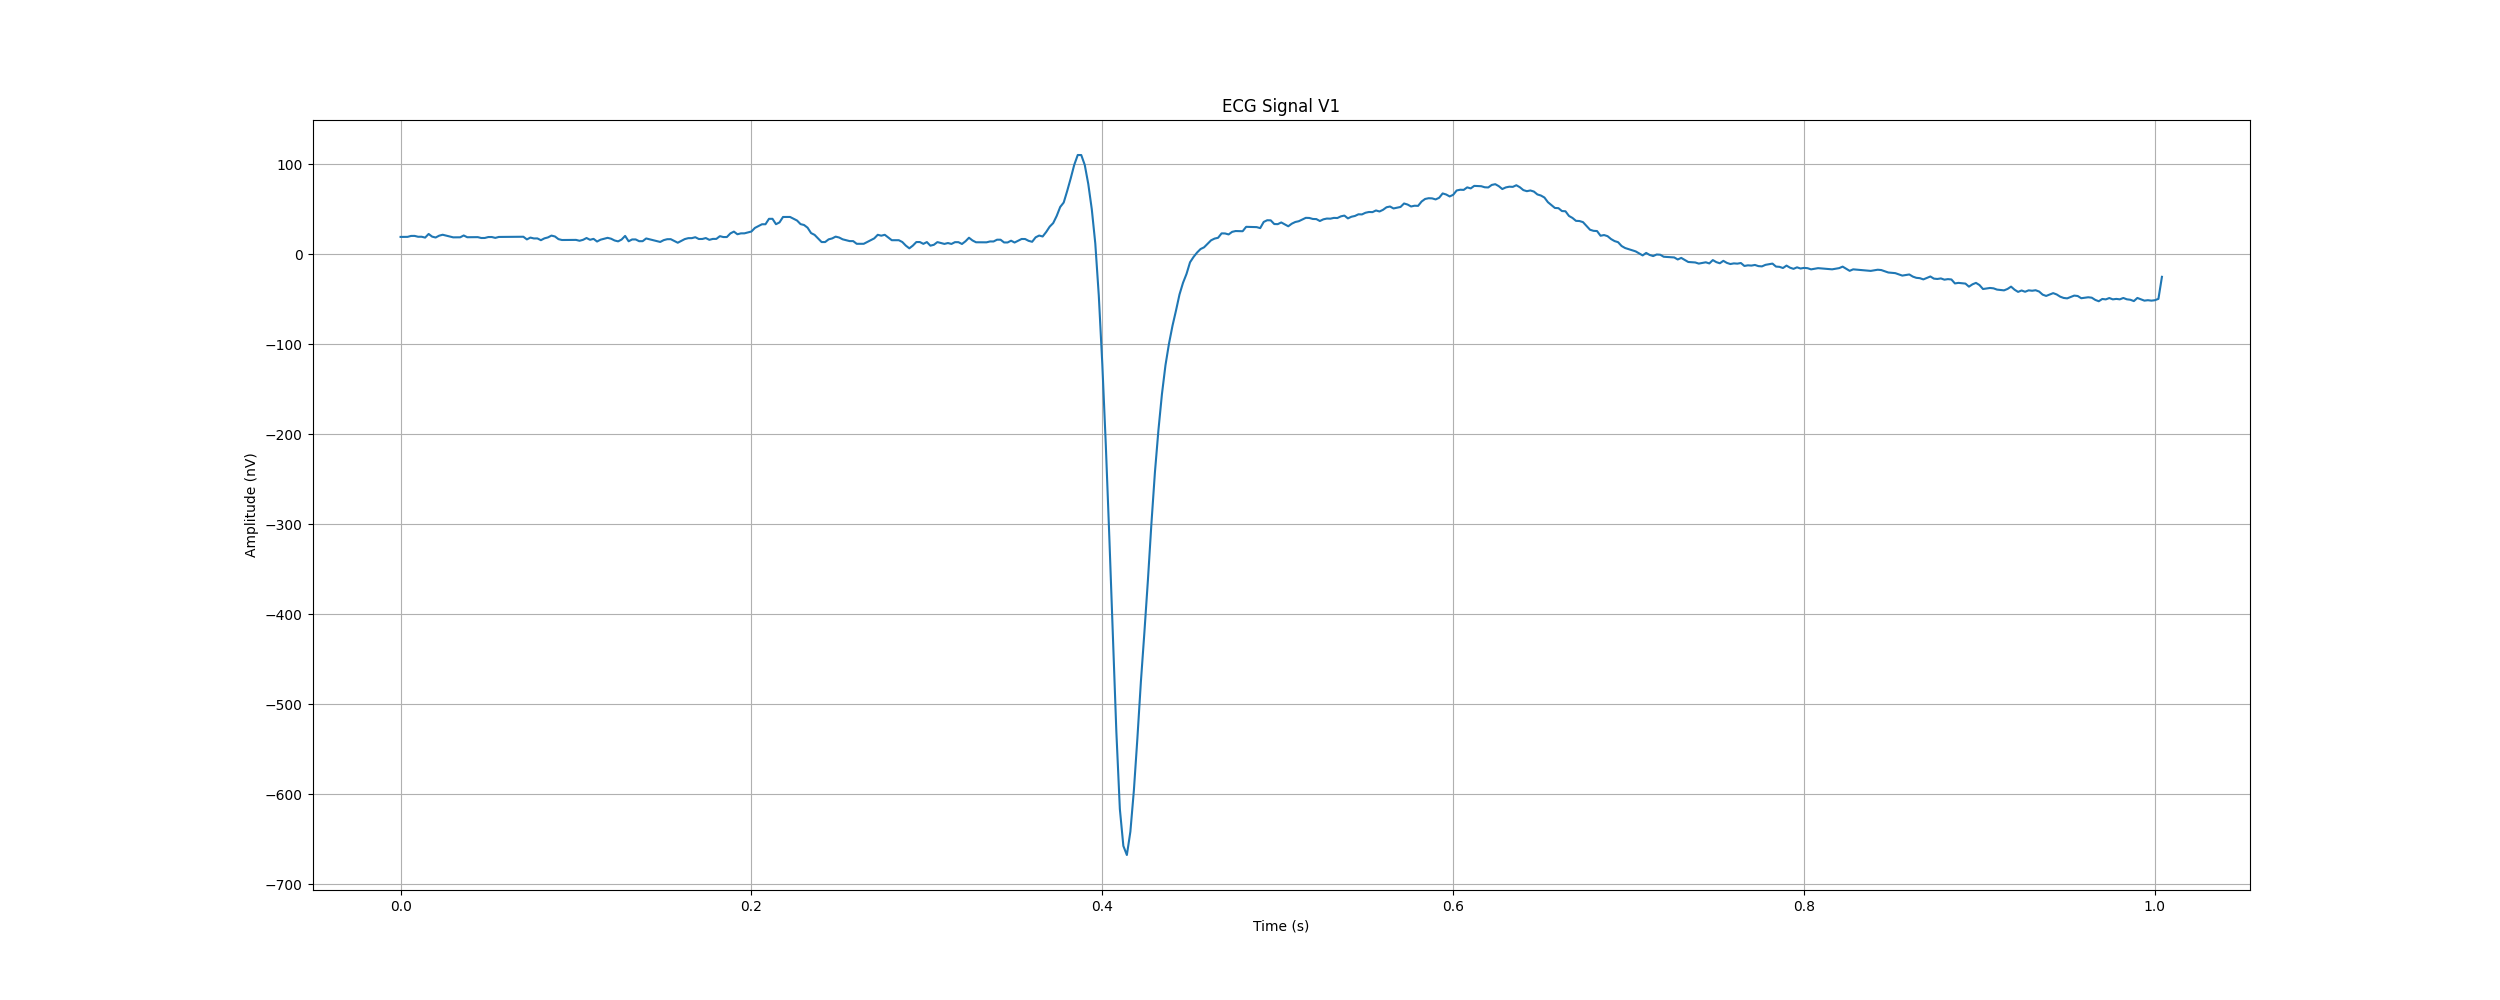
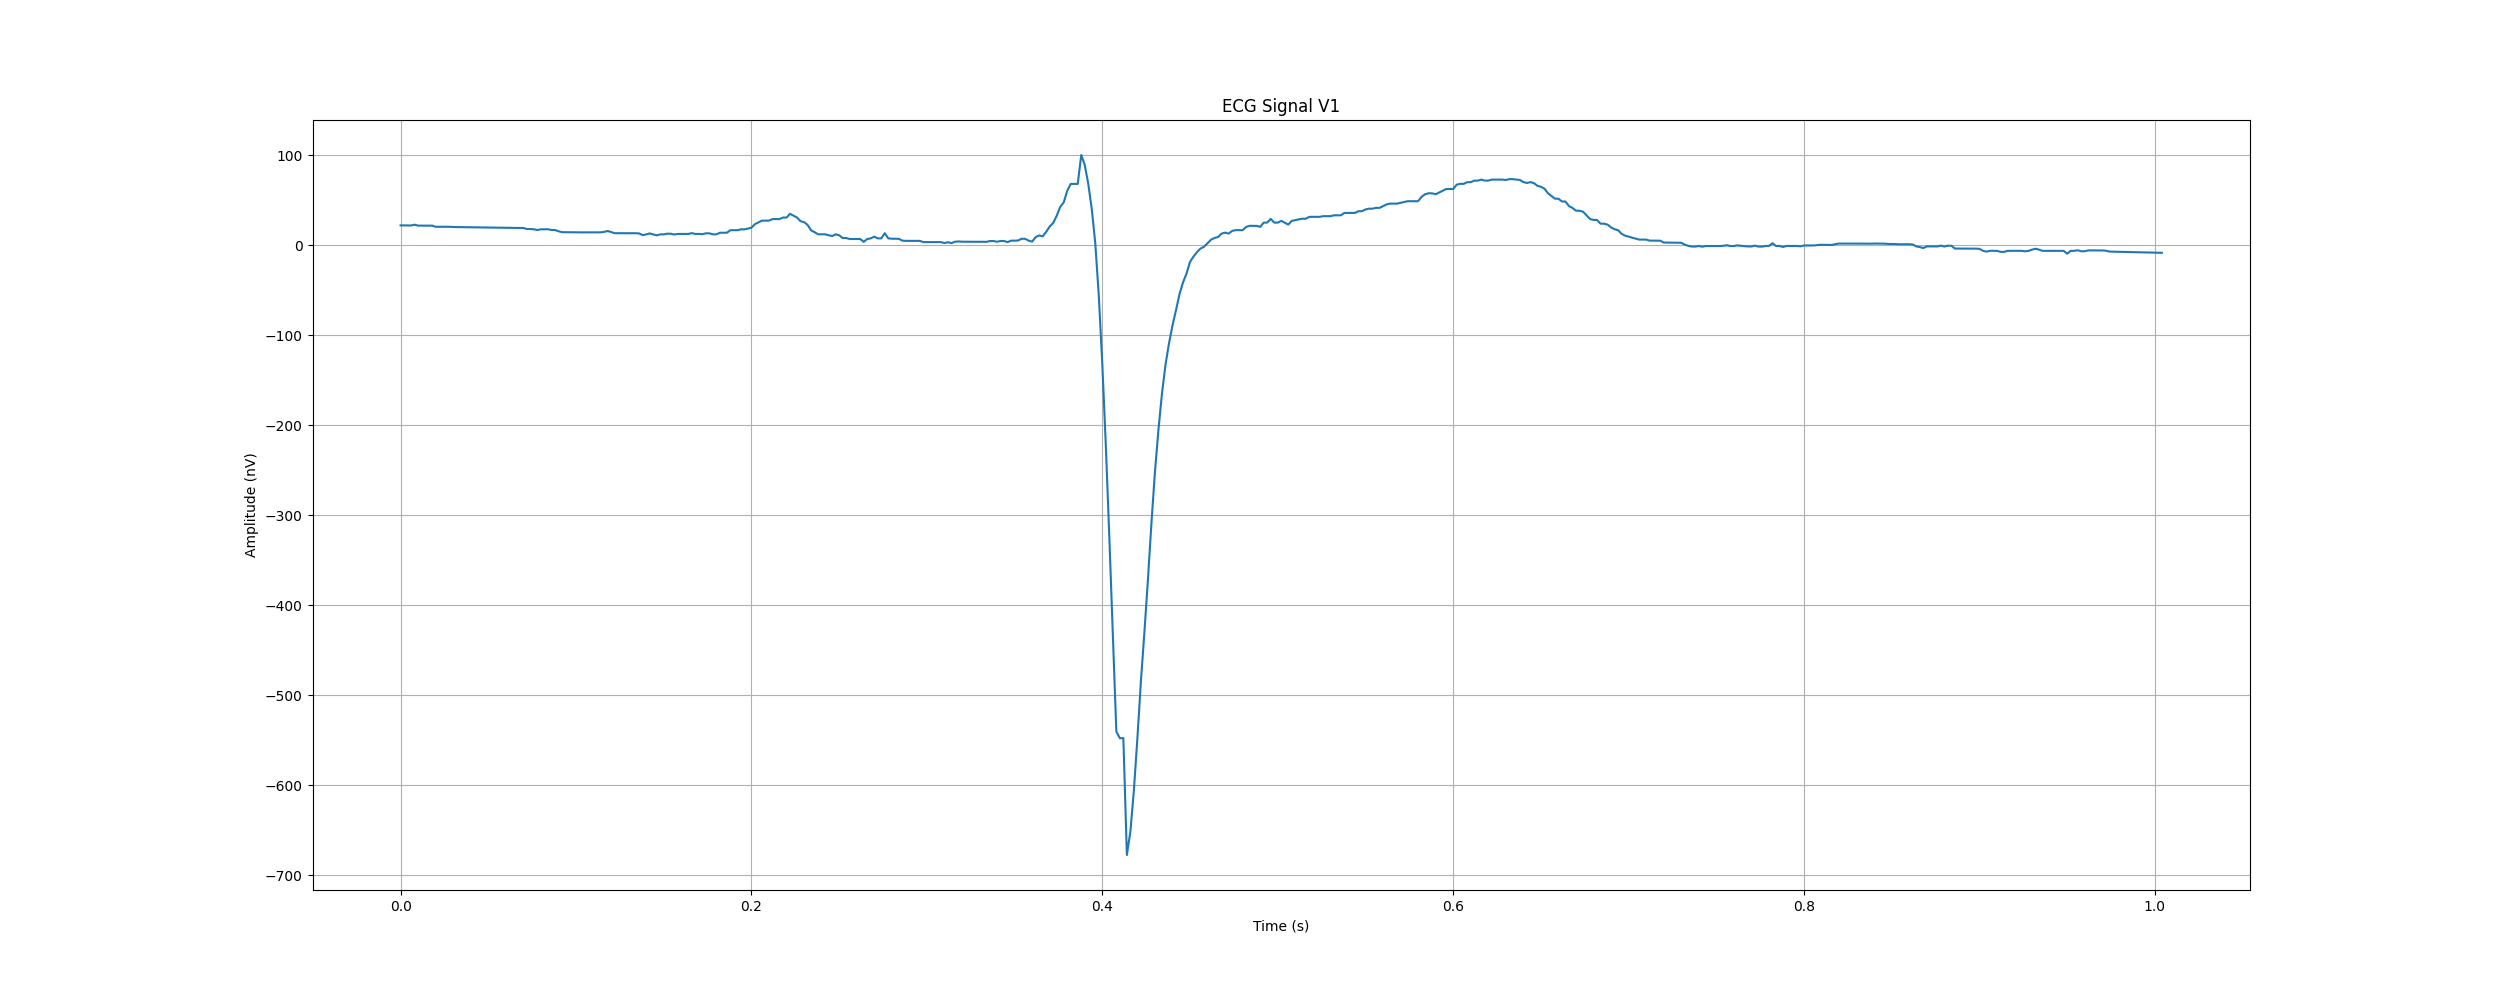
Final rogue value fix

diff --git a/HeartbeatAria.py b/HeartbeatAria.py
@@ -1,9 +1,17 @@
 from __future__ import annotations
+
+import subprocess
+import sys
+subprocess.check_call([sys.executable, "-m", "pip", "install", "matplotlib", "scipy"])
+
 import struct
 from abc import ABC, abstractmethod
 import matplotlib.pyplot as plt
 import numpy as np
 import scipy
+import sys
+import subprocess
+import matplotlib
 import scipy.signal
 
 class Stream:
@@ -786,11 +794,207 @@ class Signal:
             for i in range(2, len(orig)):
                 orig[i] = orig[i] + 2 * orig[i - 1] - orig[i - 2]
             self.signal = orig
-
         
         self.amplitude_multiplier = amplitude_multiplier * 0.000000001
         self.name = name
         self.sample_time_interval = sample_time_interval
+    
+    def detrend(self) -> 'Signal':
+        """
+        Returns a new Signal with the linear trend removed.
+        """
+        detrended_signal = scipy.signal.detrend(self.signal)
+        return Signal(self.name, detrended_signal, self.sample_time_interval, self.amplitude_multiplier / 0.000000001, 0)
+    
+    def smooth_outliers(self, window_size=5, threshold=3) -> 'Signal':
+        """
+        Returns a new Signal with outliers at the beginning and end smoothed out.
+        Outliers are defined as points more than `threshold` standard deviations from the mean
+        in the first and last `window_size` samples.
+        """
+        signal = self.signal.copy()
+        n = len(signal)
+        # Smooth start
+        start_window = signal[:window_size]
+        mean = np.mean(start_window)
+        std = np.std(start_window)
+        for i in range(window_size):
+            if abs(signal[i] - mean) > threshold * std:
+                # Replace with mean of next window_size values (or as many as available)
+                next_vals = signal[i+1:i+1+window_size]
+                if len(next_vals) > 0:
+                    signal[i] = np.mean(next_vals)
+                else:
+                    signal[i] = mean
+        # Smooth end
+        end_window = signal[-window_size:]
+        mean = np.mean(end_window)
+        std = np.std(end_window)
+        for i in range(n - window_size, n):
+            if abs(signal[i] - mean) > threshold * std:
+                prev_vals = signal[max(0, i-window_size):i]
+                if len(prev_vals) > 0:
+                    signal[i] = np.mean(prev_vals)
+                else:
+                    signal[i] = mean
+        return Signal(self.name, signal, self.sample_time_interval, self.amplitude_multiplier / 0.000000001, 0)
+    
+    def aggressive_smooth_outliers(self, window_size=10, threshold=1) -> 'Signal':
+        """
+        Returns a new Signal with aggressive outlier smoothing based on the first difference.
+        Outliers are detected where the difference between consecutive samples exceeds the threshold.
+        Outliers are replaced by the median of a window around them.
+        """
+        signal = self.signal.copy()
+        n = len(signal)
+        diffs = np.diff(signal, prepend=signal[0])
+
+        # Forward pass
+        for i in range(n):
+            start = max(0, i - window_size // 2)
+            end = min(n, i + window_size // 2 + 1)
+            window = signal[start:end]
+            diff_window = diffs[start:end]
+            median = np.median(window)
+            std_diff = np.std(diff_window)
+            if std_diff > 0 and abs(diffs[i]) > threshold * std_diff:
+                signal[i] = median
+
+        # Backward pass
+        diffs = np.diff(signal, prepend=signal[0])
+        for i in reversed(range(n)):
+            start = max(0, i - window_size // 2)
+            end = min(n, i + window_size // 2 + 1)
+            window = signal[start:end]
+            diff_window = diffs[start:end]
+            median = np.median(window)
+            std_diff = np.std(diff_window)
+            if std_diff > 0 and abs(diffs[i]) > threshold * std_diff:
+                signal[i] = median
+
+        return Signal(self.name, signal, self.sample_time_interval, self.amplitude_multiplier / 0.000000001, 0)
+    
+    def fix_edge_outliers(self, edge_size=100, threshold=1, max_derivative=3) -> 'Signal':
+        """
+        Detects outlier zones at the start and end of the signal, and replaces them
+        by extrapolating from the nearest good data using the lowest derivative that fits.
+        """
+        signal = self.signal.copy()
+        n = len(signal)
+
+        def find_outlier_zone(arr, from_start=True):
+            window = arr[:edge_size] if from_start else arr[-edge_size:]
+            mean = np.mean(window)
+            std = np.std(window)
+            if std == 0:
+                return 0
+            if from_start:
+                for i in range(edge_size):
+                    if abs(arr[i] - mean) > threshold * std:
+                        return i
+                return edge_size
+            else:
+                for i in range(edge_size):
+                    if abs(arr[-(i+1)] - mean) > threshold * std:
+                        return i
+                return edge_size
+
+        # Find outlier zones
+        start_zone = find_outlier_zone(signal, from_start=True)
+        end_zone = find_outlier_zone(signal, from_start=False)
+
+        # Fix start
+        if start_zone > 0:
+            good_start = start_zone
+            for d in range(1, max_derivative+1):
+                if good_start + d >= n:
+                    break
+                # Fit polynomial of degree d to next edge_size points
+                x = np.arange(good_start, good_start + edge_size)
+                y = signal[good_start:good_start + edge_size]
+                coeffs = np.polyfit(x, y, min(d, len(x)-1))
+                for i in range(good_start):
+                    signal[i] = np.polyval(coeffs, i)
+                # Stop at first derivative that fits
+                break
+
+        # Fix end
+        if end_zone > 0:
+            good_end = n - end_zone
+            for d in range(1, max_derivative+1):
+                if good_end - edge_size < 0:
+                    break
+                x = np.arange(good_end - edge_size, good_end)
+                y = signal[good_end - edge_size:good_end]
+                coeffs = np.polyfit(x, y, min(d, len(x)-1))
+                for i in range(good_end, n):
+                    signal[i] = np.polyval(coeffs, i)
+                break
+
+        return Signal(self.name, signal, self.sample_time_interval, self.amplitude_multiplier / 0.000000001, 0)
+    
+    def remove_edge_outliers(self, edge_size=100, threshold=1) -> 'Signal':
+        """
+        Detects outlier zones at the start and end of the signal and removes these zones entirely.
+        Returns a new Signal with the outlier zones removed.
+        """
+        signal = self.signal.copy()
+        n = len(signal)
+
+        def find_outlier_zone(arr, from_start=True):
+            window = arr[:edge_size] if from_start else arr[-edge_size:]
+            mean = np.mean(window)
+            std = np.std(window)
+            if std == 0:
+                return 0
+            if from_start:
+                for i in range(edge_size):
+                    if abs(arr[i] - mean) > threshold * std:
+                        return i
+                return edge_size
+            else:
+                for i in range(edge_size):
+                    if abs(arr[-(i+1)] - mean) > threshold * std:
+                        return i
+                return edge_size
+
+        # Find outlier zones
+        start_zone = find_outlier_zone(signal, from_start=True)
+        end_zone = find_outlier_zone(signal, from_start=False)
+
+        # Remove the zones
+        new_signal = signal[start_zone:n-end_zone] if end_zone > 0 else signal[start_zone:]
+
+        return Signal(self.name, new_signal, self.sample_time_interval, self.amplitude_multiplier / 0.000000001, 0)
+    
+    def remove_rogue_beginning(self, threshold=5) -> 'Signal':
+        """
+        Removes samples at the beginning of the signal that are too low or too high compared to the rest of the signal.
+        A sample is considered rogue if it is more than `threshold` standard deviations from the mean of the signal (excluding the first 5%).
+        """
+        signal = self.signal.copy()
+        n = len(signal)
+        # Use the main body of the signal (excluding first 5%) to compute mean and std
+        start_idx = max(int(n * 0.05), 1)
+        main_body = signal[start_idx:]
+        mean = np.mean(main_body)
+        std = np.std(main_body)
+        # Find first index where value is within threshold*std of mean
+        idx = 0
+        while idx < n and abs(signal[idx] - mean) > threshold * std:
+            idx += 1
+        # Remove rogue beginning
+        new_signal = signal[idx:] if idx > 0 else signal
+        return Signal(self.name, new_signal, self.sample_time_interval, self.amplitude_multiplier / 0.000000001, 0)
+    
+    def attempt_fix(self):
+        """
+        Applies a series of fixes to the signal:
+        1. Detrend the signal.
+        2. Aggressively smooth outliers.
+        3. Fix edge outliers.
+        """
+        return self.detrend().smooth_outliers().aggressive_smooth_outliers().fix_edge_outliers().remove_edge_outliers().remove_rogue_beginning().detrend()
     
 class Data:
     def __init__(self, path:str):
@@ -802,6 +1006,7 @@ class Data:
         self.data5 = []
         self.data6 = []
         for s5, s6, lead in zip(file.get_section(5).samples, file.get_section(6).samples, file.get_section(3).leads):
+            is_first = s6 == file.get_section(6).samples[0]
             self.data5.append(Signal(lead.name, s5, file.get_section(5).sample_time_interval, avm5, file.get_section(5).difference_encoding))
             self.data6.append(Signal(lead.name, s6, file.get_section(6).sample_time_interval, avm6, file.get_section(6).difference_encoding))
 
@@ -815,7 +1020,7 @@ class Data:
 
     def draw_graph(self, file, signal=0, section=6, length=2 ** 30):
         s = self.data6[signal] if section == 6 else self.data5[signal]
-        samples = s.signal[:min(len(s.signal), length)]
+        samples = s.attempt_fix().signal[:min(len(s.signal), length)]
         print(f"Displaying {len(samples)} samples.")
         sample_time_interval = s.sample_time_interval * 0.000001
         self.plot_samples(samples, title=f"ECG Signal {s.name}", sample_time_interval=sample_time_interval, section=section, index=signal)
